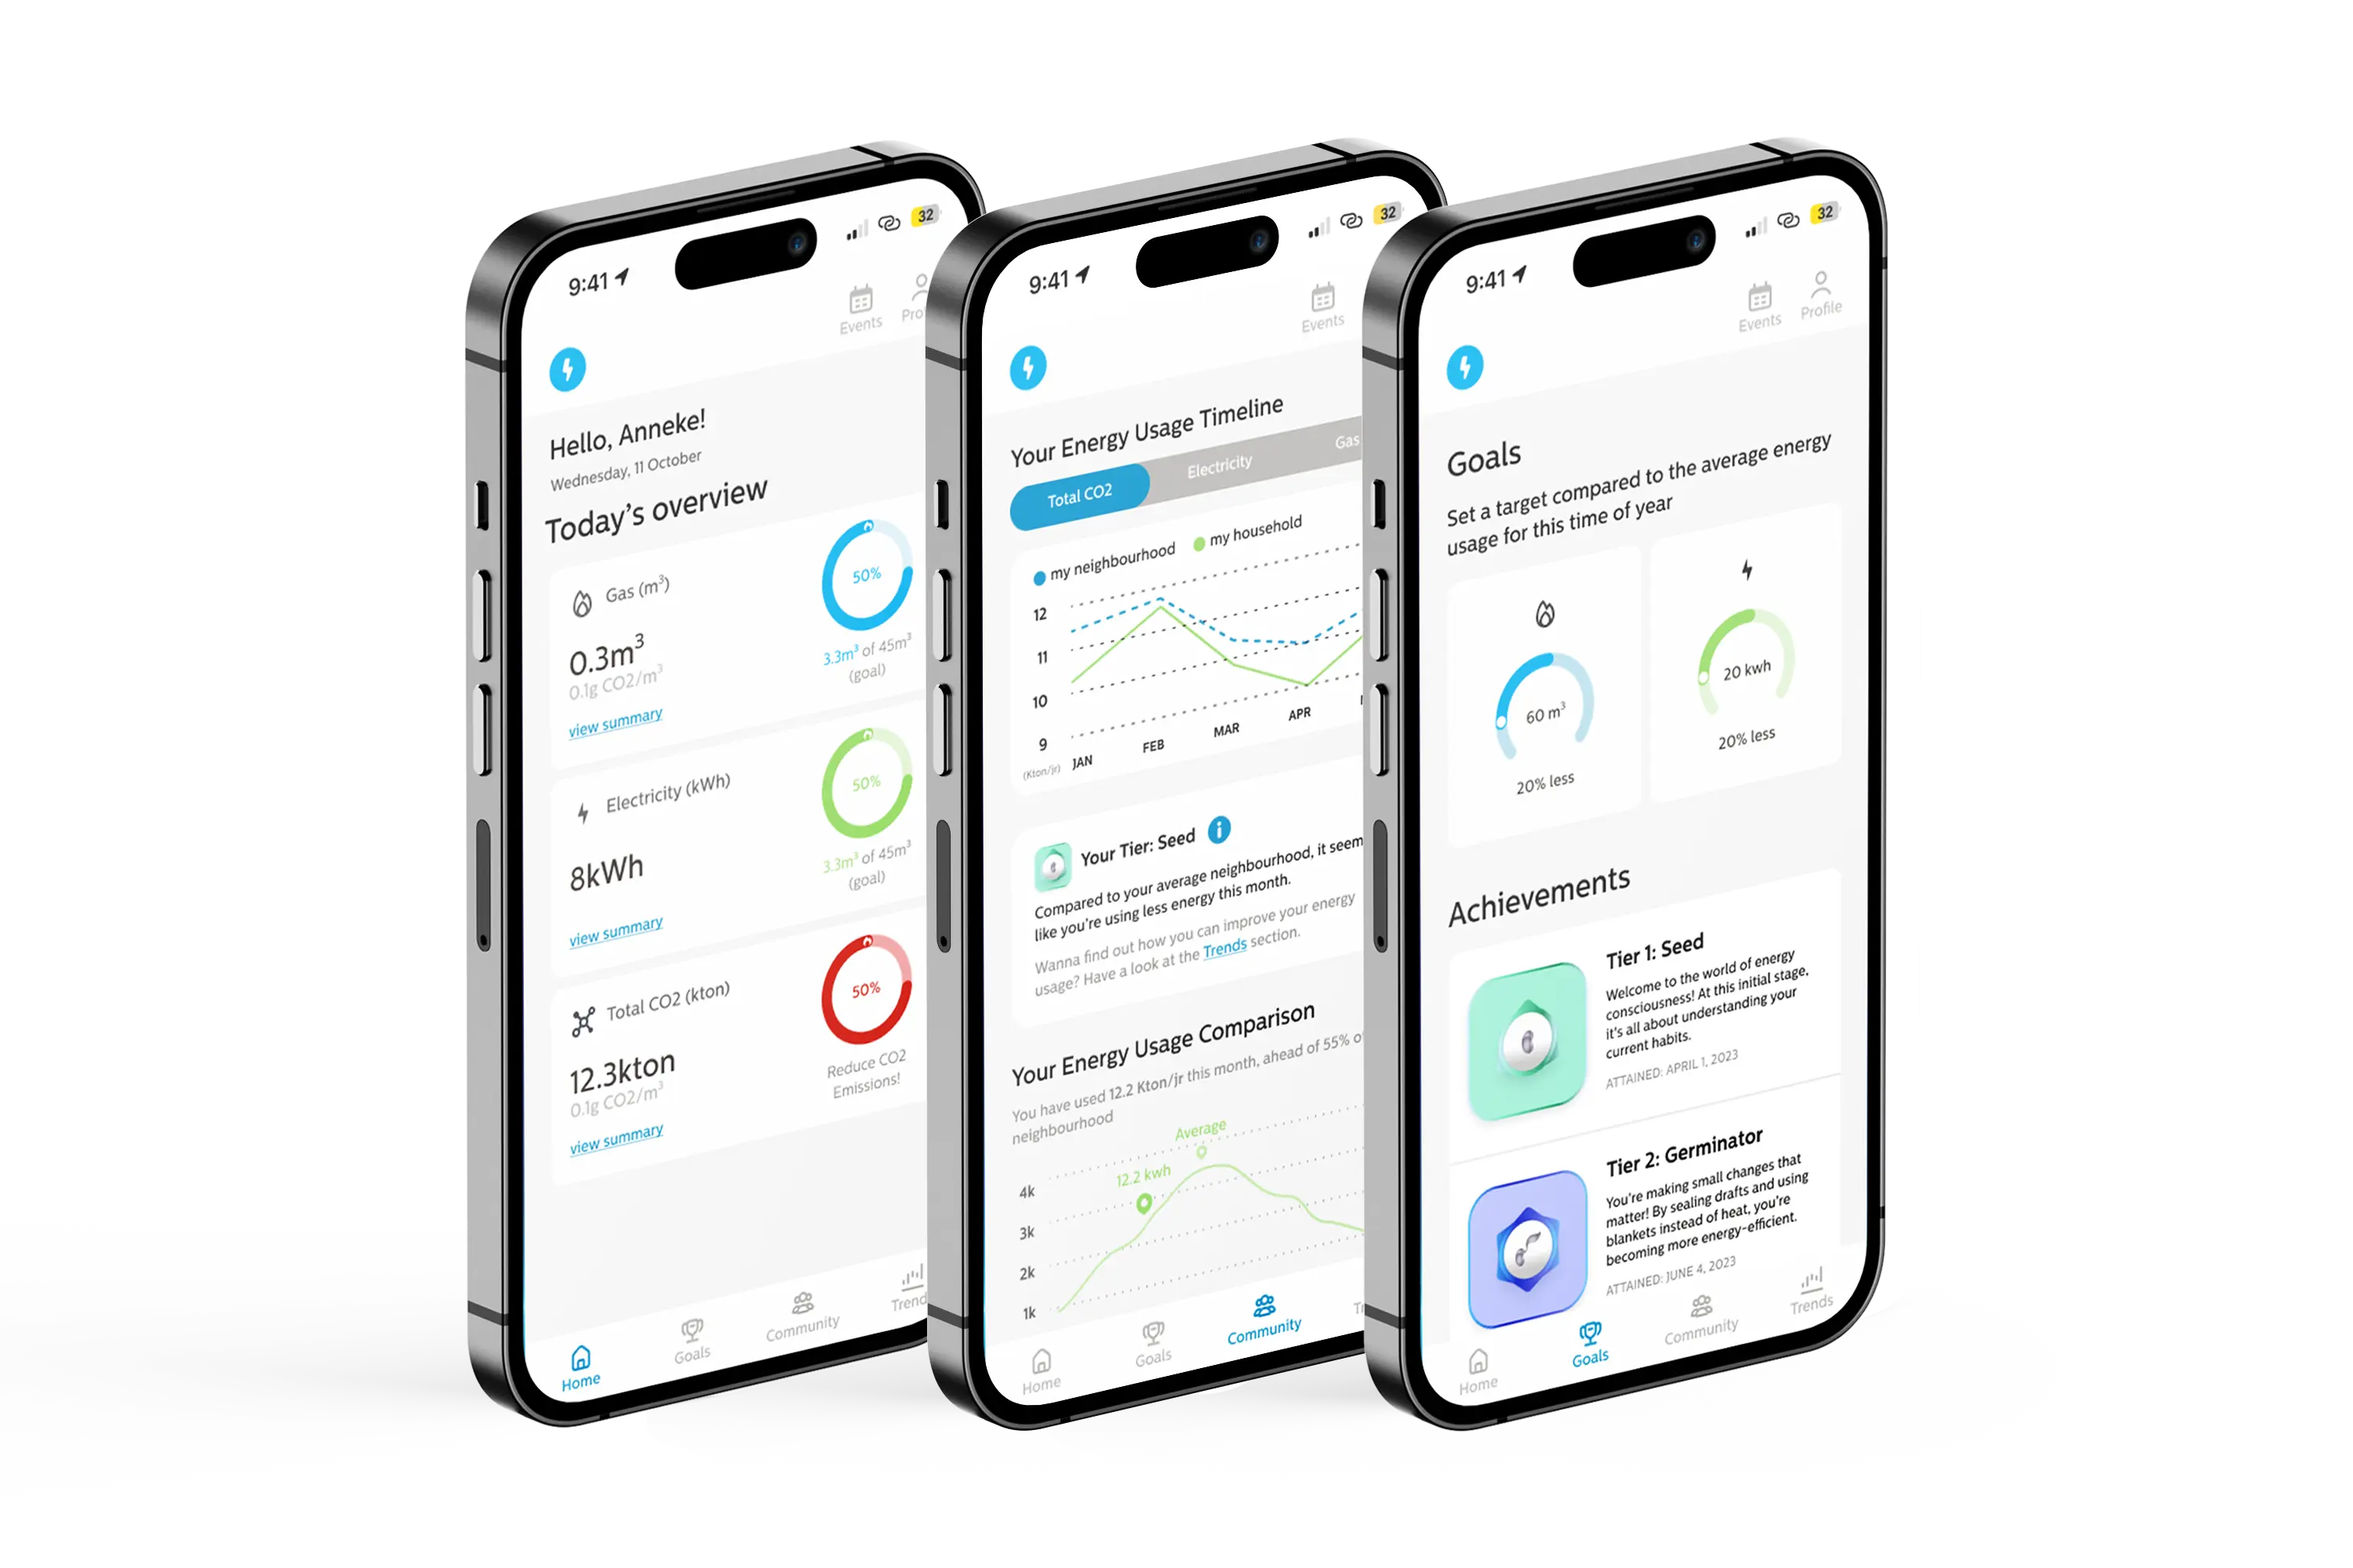
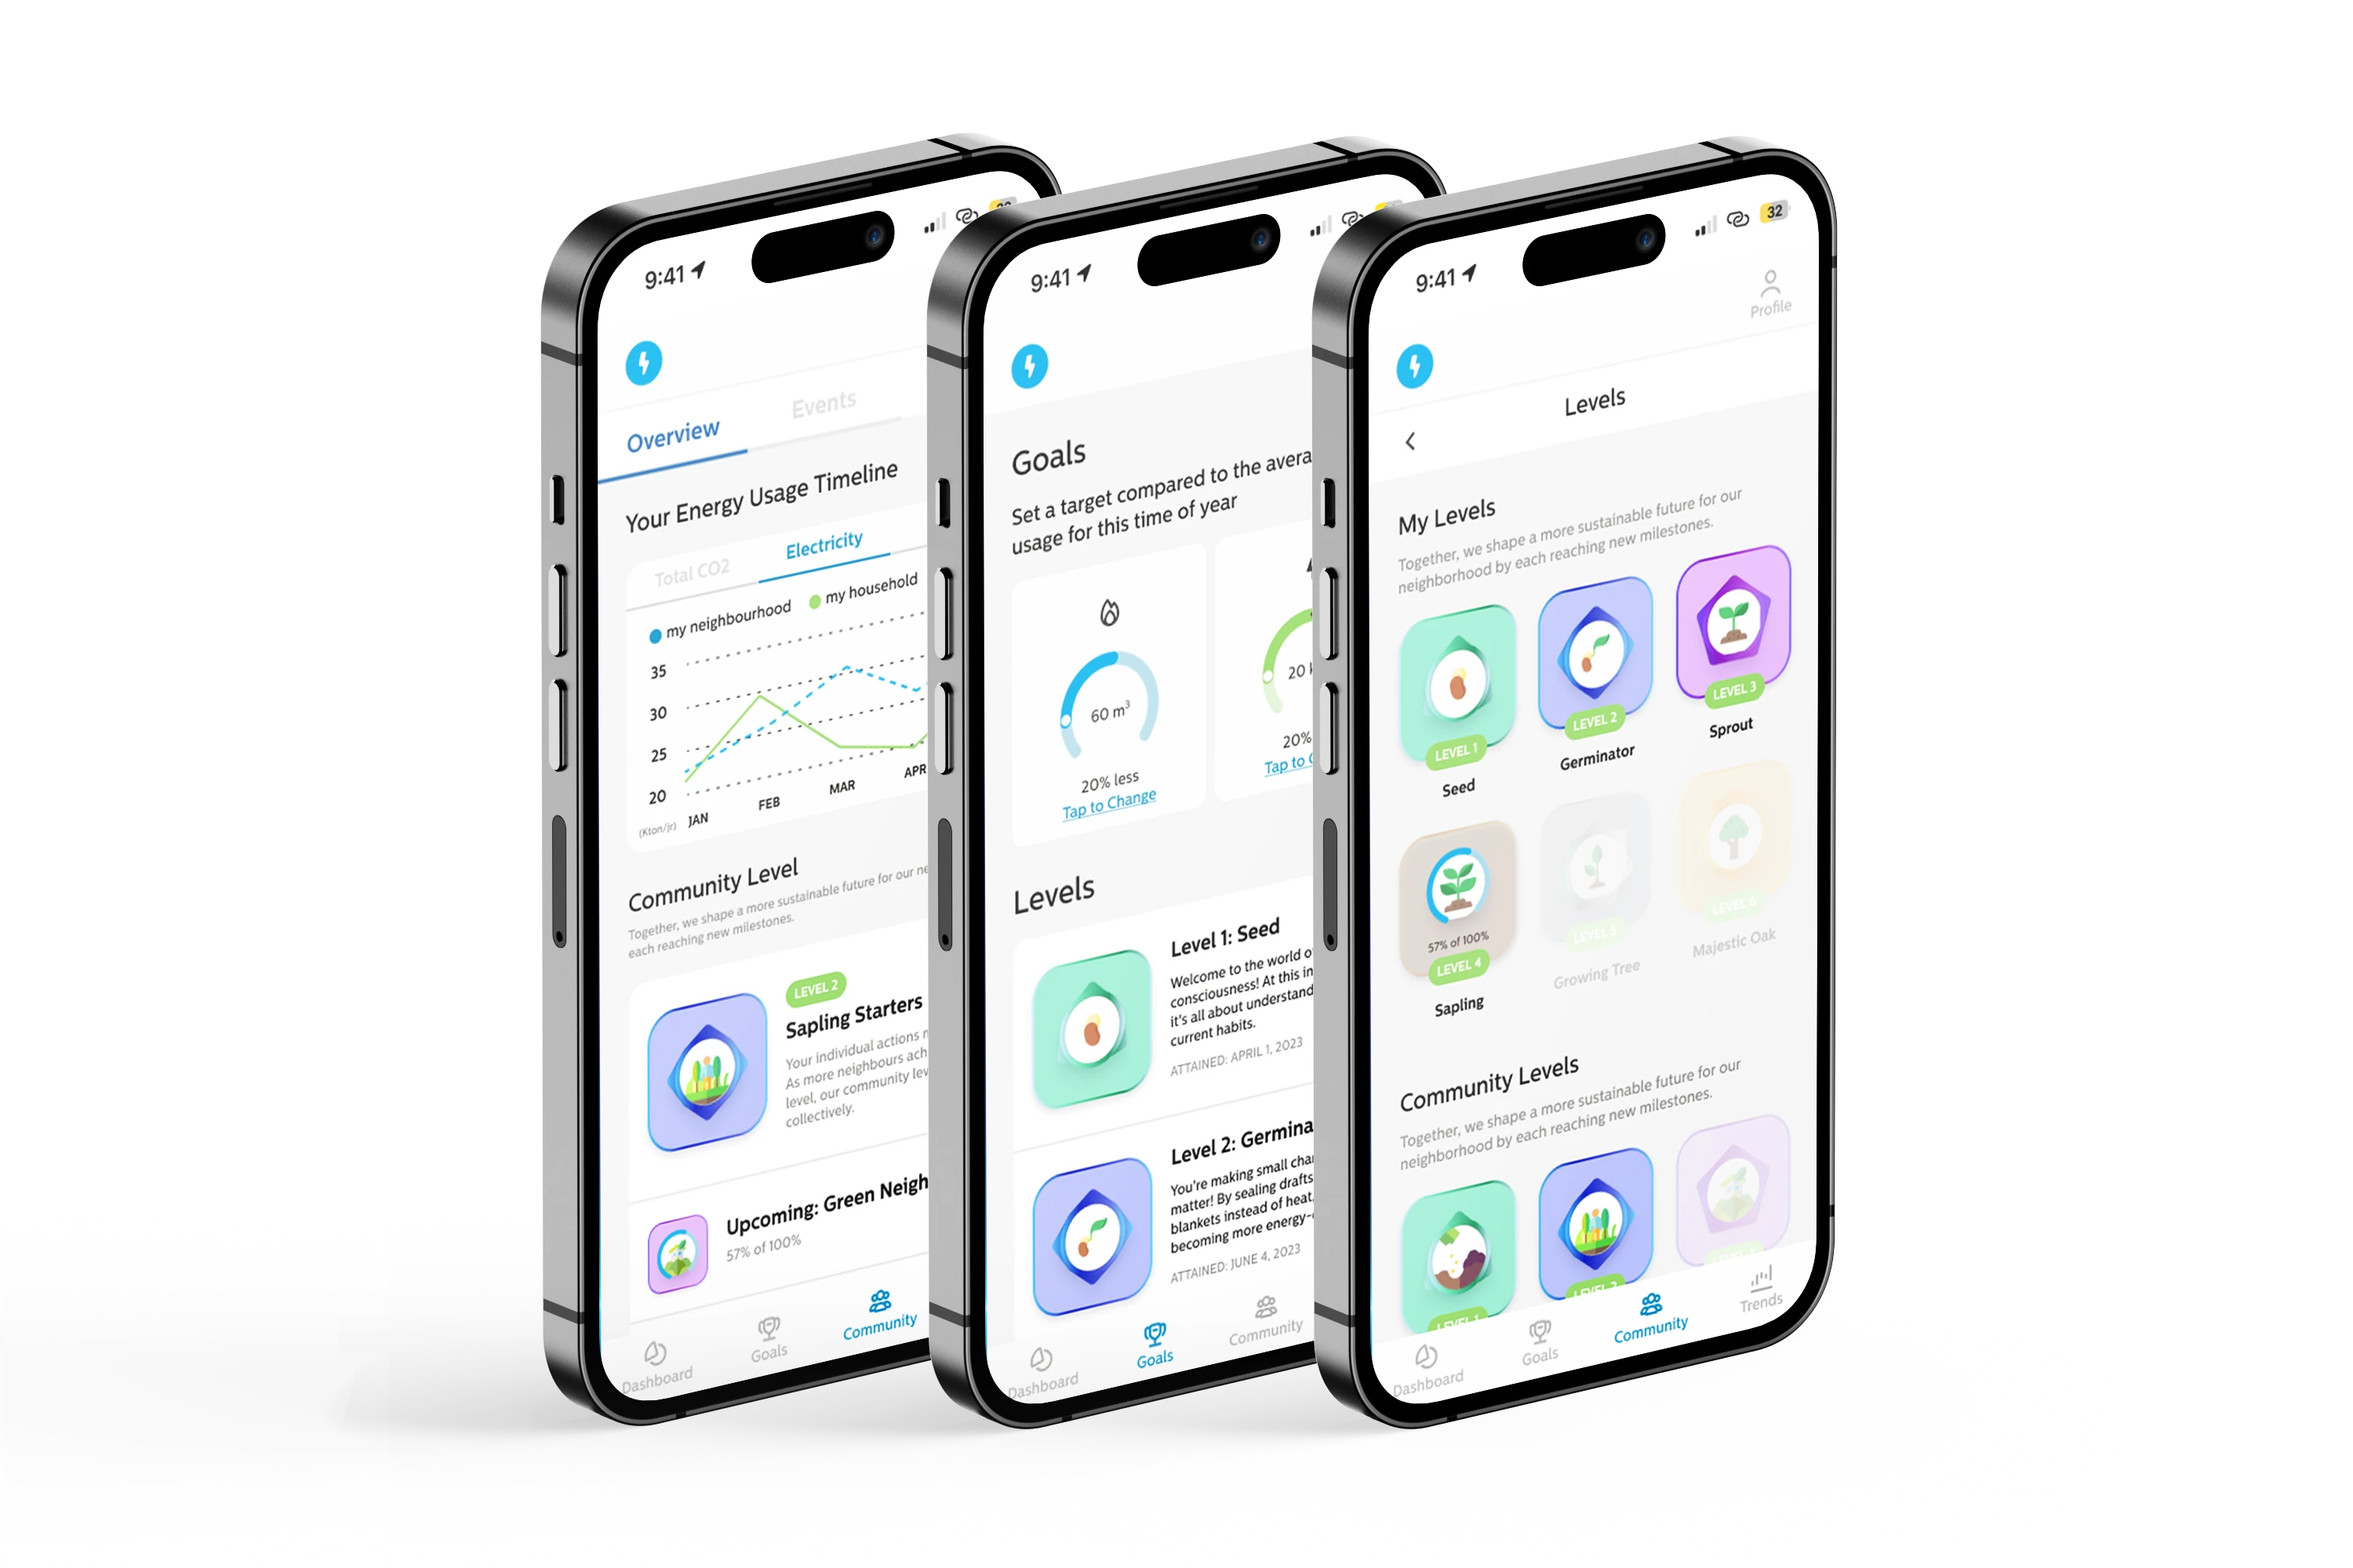
changed mock-ups sparky

Changed region(s): [[0.186, 0.062, 0.806, 0.93], [0.713, 0.527, 0.744, 0.558], [0.31, 0.434, 0.341, 0.465]]

diff --git a/src/components/sparky/Sparky.jsx b/src/components/sparky/Sparky.jsx
@@ -18,6 +18,12 @@ const Sparky = () => {
                 </div>
             </section>
             <Overview paragraph1={data.overview.overviewSparky1} paragraph2={data.overview.overviewSparky2} duration={data.overview.durationSparky} />
+            <section className="casestudy-section article-section">
+                <div className="article-section_mock-wrapper">
+                    <img className="article-section_mock-image"
+                        src={data.sparky.mockSparky2} alt={data.sparky.mockAlt} />
+                </div>
+            </section>
             <section className="casestudy-section">
                 <h2 className="text-header-large" style={{ textAlign: "Center" }}>Coming Soon 🦺 </h2>
             </section>

diff --git a/src/data/data.js b/src/data/data.js
@@ -640,6 +640,7 @@ const data = {
 
     sparky: {
         mockSparky: "/mock-up-sparky.webp",
+        mockSparky2: "/mock-up-sparky-2.webp",
         mockAlt: "Mock-up of the Sparky Application Design",
     },
 
